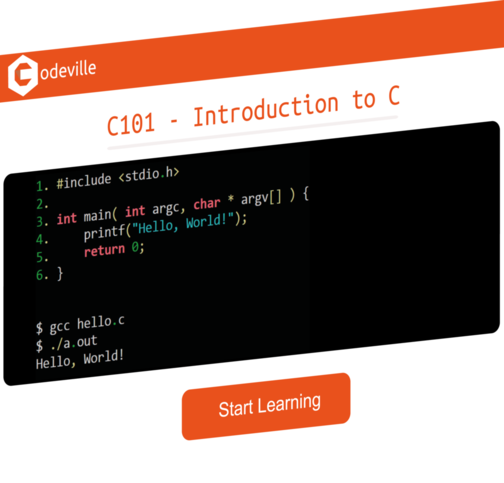
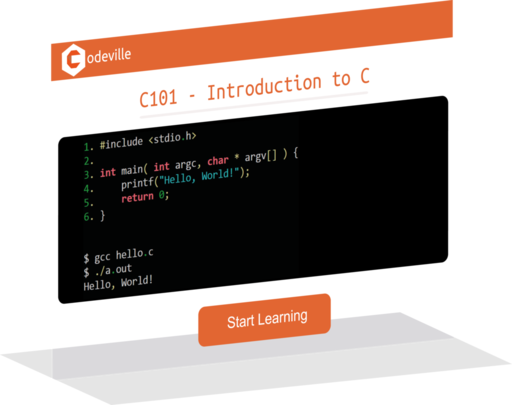
HEader transition smoothened. Quote changed

diff --git a/css/main.css b/css/main.css
@@ -123,79 +123,6 @@ img.codeville_logo {
 }
 
 
-
-/* Navigation bar */
-
-#custom-bootstrap-menu.navbar-default .codeville_logo_banner {
-  background: url(/img/codeville_small.png) no-repeat;
-  display: block;
-  -moz-box-sizing: border-box;
-  box-sizing: border-box;
-  width: 175px; /* Width of new image */
-  height: 70px; /* Height of new image */
-  margin-top: 15px;
-}
-
-#custom-bootstrap-menu.navbar-default .navbar-brand,
-#custom-bootstrap-menu.navbar-default .navbar-nav li a {
-    line-height: 100px;
-    height: 100px;
-    padding-top: 0;
-}
-
-#custom-bootstrap-menu.navbar-default {
-  transition: all 0.4s ease;
-}
-
-#custom-bootstrap-menu.navbar-default .navbar-brand img {
-    margin-top: 15px;
-    max-height:70px;
-}
-#custom-bootstrap-menu.navbar-default .navbar-collapse {
-}
-#custom-bootstrap-menu.navbar-default .navbar-brand {
-    color: rgba(17, 17, 17, 1);
-}
-#custom-bootstrap-menu.navbar-default {
-    background-color: transparent;
-    border-width: 1px;
-    border-radius: 0px;
-}
-#custom-bootstrap-menu.navbar-default .navbar-nav>li>a {
-    font-family: Arial, Ubuntu, Helvetica Neue, Helvetica, sans-serif;
-    font-size: 16px;
-    font-weight: bold;
-    color: #DD2A13;
-    background-color: transparent;
-}
-#custom-bootstrap-menu.navbar-default .navbar-nav>li>a:hover,
-#custom-bootstrap-menu.navbar-default .navbar-nav>li>a:focus {
-    color: rgba(83, 78, 76, 1);
-    background-color: transparent;
-}
-#custom-bootstrap-menu.navbar-default .navbar-nav>.active>a,
-#custom-bootstrap-menu.navbar-default .navbar-nav>.active>a:hover,
-#custom-bootstrap-menu.navbar-default .navbar-nav>.active>a:focus {
-    color: rgba(83, 78, 76, 1);
-    background-color: transparent;
-}
-#custom-bootstrap-menu.navbar-default .navbar-toggle {
-    border-color: rgba(83, 78, 76, 0.2);
-}
-#custom-bootstrap-menu.navbar-default .navbar-toggle:hover,
-#custom-bootstrap-menu.navbar-default .navbar-toggle:focus {
-    background-color: transparent;
-}
-#custom-bootstrap-menu.navbar-default .navbar-toggle .icon-bar {
-    background-color: transparent;
-}
-#custom-bootstrap-menu.navbar-default .navbar-toggle:hover .icon-bar,
-#custom-bootstrap-menu.navbar-default .navbar-toggle:focus .icon-bar {
-    background-color: transparent;
-}
-#custom-bootstrap-menu.navbar-default {
-    border-color: rgba(83, 78, 76, 0.2);
-}
 .vcenter {
     display: inline-block;
     vertical-align: middle;

diff --git a/index.html b/index.html
@@ -111,11 +111,11 @@
     
     <section id="aim" class="site-aim">
         <div class="container">
-            <div class="row">
+            <!--div class="row">
                 <div class="col-lg-12 col-md-12 col-xs-12">
                     <div class="site-tagline clay" >Dive into the world of <span class="quoted orange">programming</span>.</div>
                 </div>
-            </div>
+            </div-->
             <div class="row">
                 <div class="col-lg-12 col-md-12 col-xs-12">
                     <div class="site-aim clay" >Most <span class="quoted orange">good programmers</span> do programming not because<br/> they expect to get paid or get adulation by the public,<br/> but because it is <span class="orange">fun to program</span>.</div>
